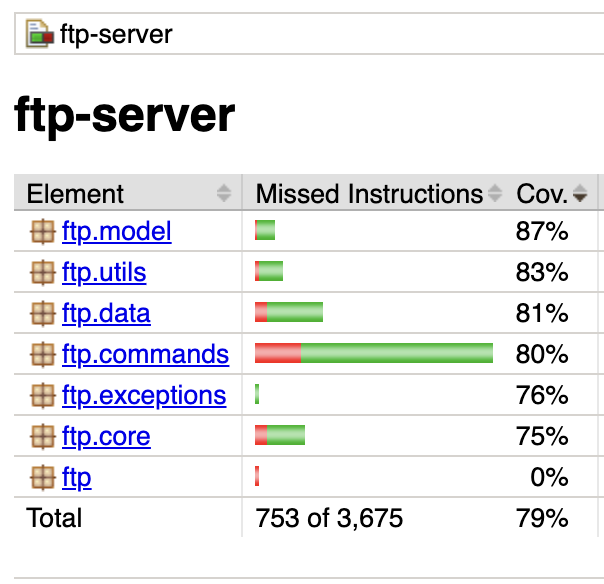
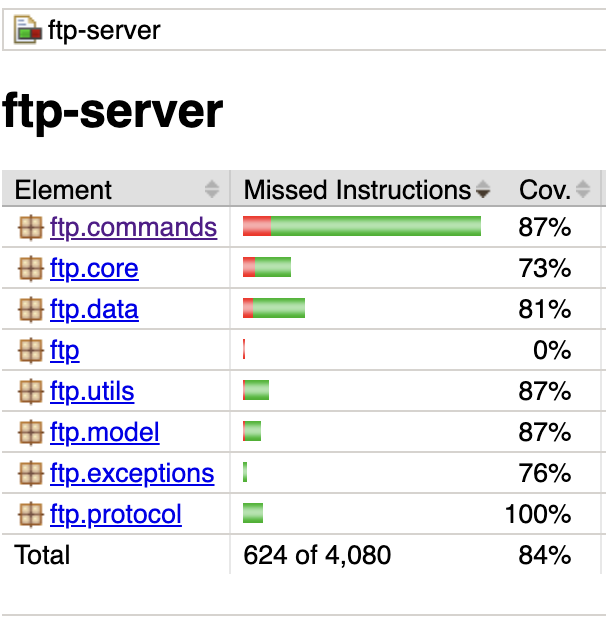
doc: update test coverage report

Changed region(s): [[0.0, 0.1233, 1.0, 0.9247], [0.0, 0.0, 1.0, 0.0925], [0.0, 0.9863, 1.0, 1.0]]

diff --git a/README.md b/README.md
@@ -2,7 +2,7 @@
 ![Java 17](https://img.shields.io/badge/Java-17-007396?logo=java&logoColor=white)
 ![Maven](https://img.shields.io/badge/Maven-3.x-C71A36?logo=apachemaven&logoColor=white)
 ![JUnit 5](https://img.shields.io/badge/Tested_with-JUnit_5-25A162?logo=java)
-![JaCoCo](https://img.shields.io/badge/Coverage-79%25-yellowgreen)
+![JaCoCo](https://img.shields.io/badge/Coverage-87%25-yellowgreen)
 ![FTP Protocol](https://img.shields.io/badge/Protocol-FTP_(RFC_959)-blue)
 <br>
 **Yasmine Kaouther Boudour, Hanan Miftah Agraw, Blen Assefa Tilahun** — 14/02/26 
@@ -59,7 +59,6 @@ Generates an html inside target/site/jacoco with the first command and open it w
 ```shell
 
 mvn jacoco:report
-
 open  target/site/jacoco/index.html
 ```
 ## Server Configuration
@@ -249,6 +248,7 @@ Client                    Control Connection                         Data Connec
 - Remove nested Exceptions
 - Remove unnecessary comments
 - Add README documentation
+- Add more tests to reach 87% code coverage
 - Add Video demo
 
 ## Task Classification
